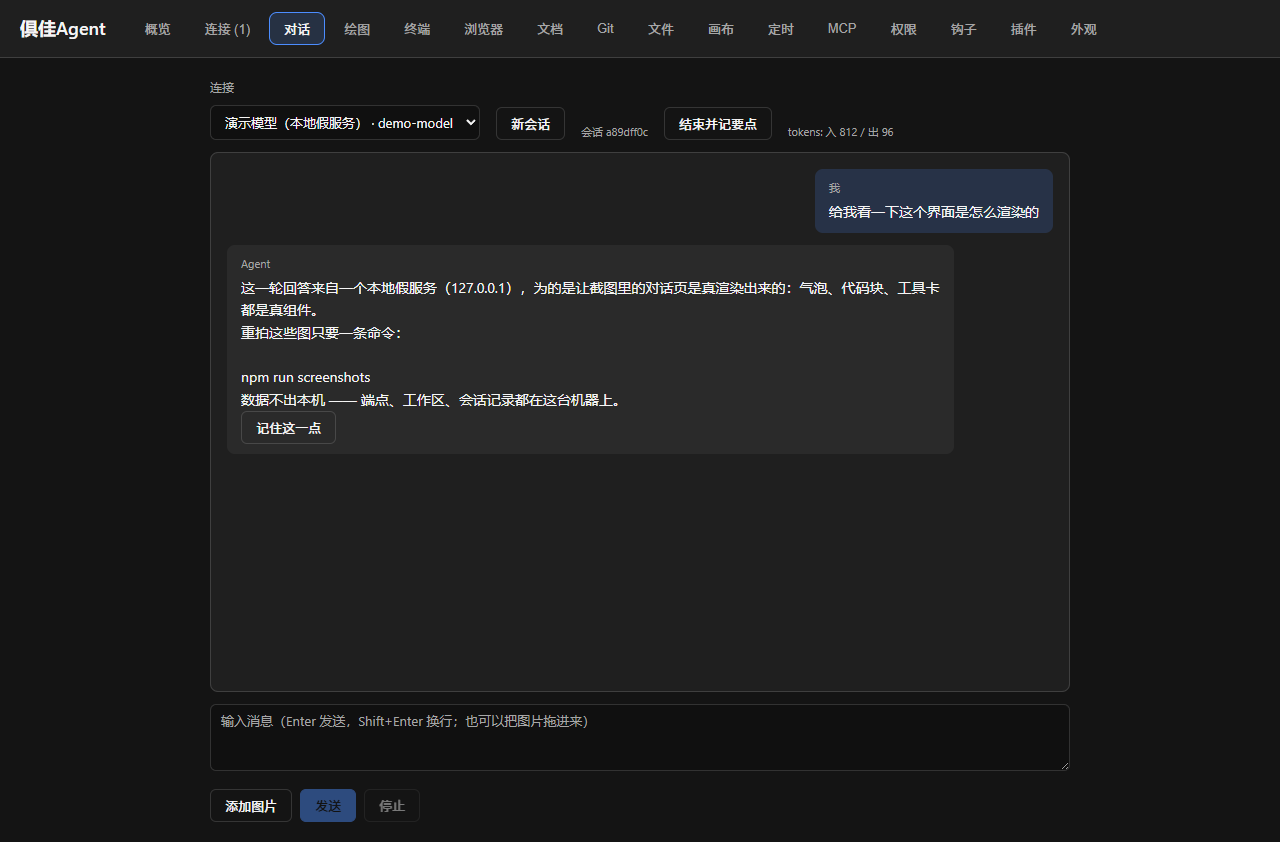
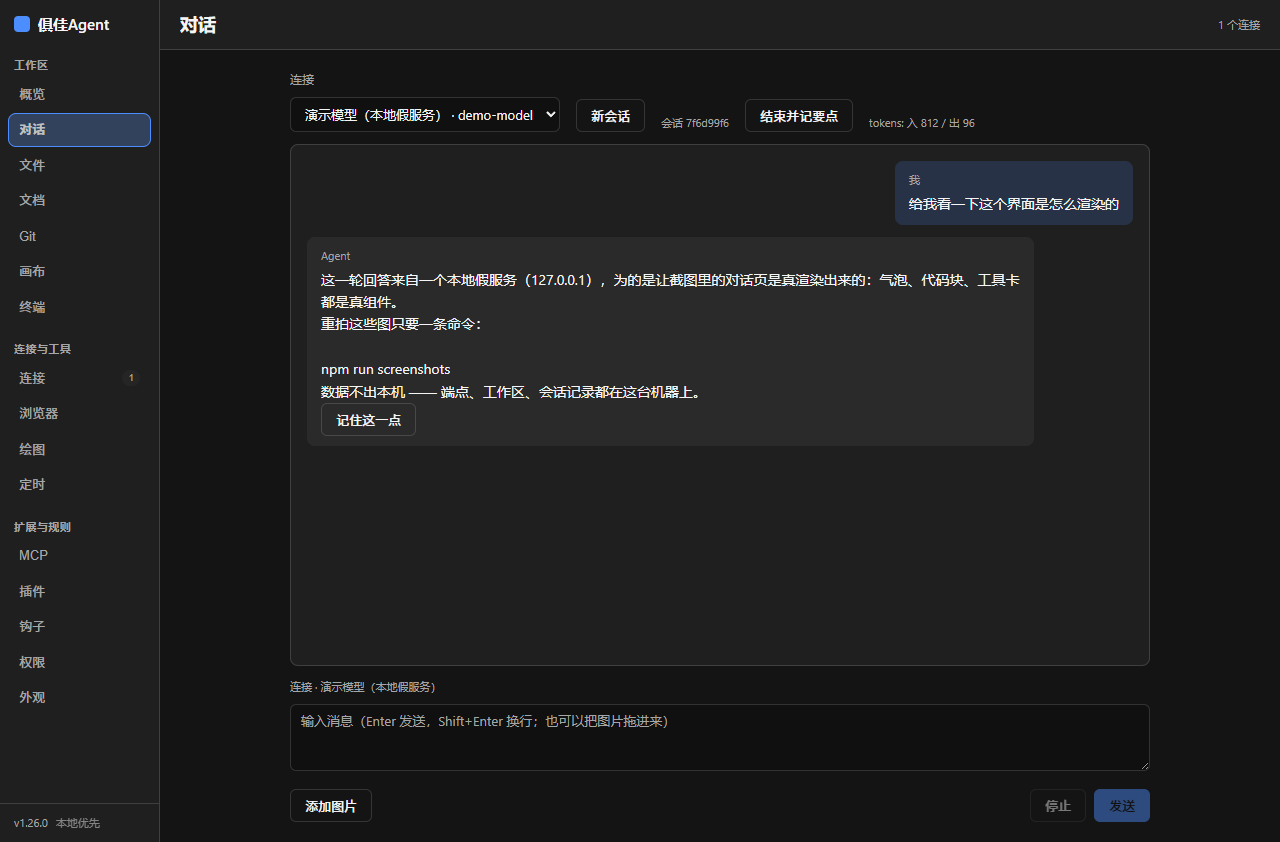
回填笔（R66）：推送核对 + CI 红因（展示图过期）⇒ 重拍展示页 + 把事实写进 §2
**范围**：`docs/screenshots/*`（**展示页 4 张图重拍** + `manifest.json` 记 **v1.26.0 @ `f078e77`**、`dirtyAtCapture:false`）·
`README.md`（图注版本跟到 **v1.26.0**）· `俱佳Agent交接文档.md`（§2 提交链 / 远端一致性 / CI 三格）·
`CHANGELOG.md`（范围补上重拍这一项）· `docs/PROGRESS.md`（排查35 行补 CI 红因与重拍）· `review/REVIEW-LOG.md`（复核 135 补 CI 那一段）。
**标签仍指主体提交 `f078e77`**（本提交只是把"推送核对 / CI / 重拍"这三样事实写进台账，**不改写已推历史**）。

1. **推送核对** —— 主体 `f078e77` 与标签 `v1.26.0-排查35` 一次推成功；
   `ls-remote` 核对：**远端 main == 本地 HEAD == `f078e77`**，远端标签 `691e419` peel 后同样指向 `f078e77` ⇒ **零待推**。
   ⇒ 本轮推时五个候选 IP 恰好全通，但**仍按 §10.11 的配方走**（`curloptResolve` + `schannel`）——
   那条阻断是**时好时坏**的，"这次通了"不等于"下次也会通"。
2. **CI run `#257`（id `40008816546`）第一次是红的** —— `Lint` / `类型检查` / `单元测试` 三步都绿，
   **红在「文档一致性」那一步** ⇒ 根因是**第 51 条判据「展示图不许悄悄过期」**：
   R66 改了渲染层 ⇒ 对外那 4 张展示图**过期了** ⇒ **重拍**（`npm run screenshots`，**离屏渲染不弹窗口**）⇒ 复跑转绿。
   ⇒ **那是这条判据第一次真的拦下一回"界面动了但图没重拍"**（R62 是从零立起它，R65 那轮零产品改动没触发它）。
3. **README 图注跟着改** —— 判据要求 README 的图注写明清单记录的版本 ⇒ `v1.22.0` → **`v1.26.0`**。
4. **如实记（这一条最容易漏）** —— 本轮**前两次 e2e 都红在第 66 步**，而我**第一版的归因是错的**
   （以为是"左栏把入口压扁了"）⇒ 修完**复跑仍红** ⇒ 写**一次性探针**逐项量才量出真因：
   **入口高度因标签语言而异**（Chromium 的表单控件不继承 `body` 的 `line-height` ⇒ 拉丁标签比中文矮 4px）
   ⇒ 修根因后第三跑转绿。⇒ 台账里写的是**真因**，不是**当时的猜测**。

**本轮门禁真值**：typecheck 0 · lint 0 · 单测 **2233 通过 / 1 跳过（153 个测试文件）** ·
`check:docs` **54 条** 0 · 注入自检 **52 处**全拦 0 · 全量变异 **336/336** · **e2e 69 步整跑 0**（第三跑）。

diff --git a/docs/PROGRESS.md b/docs/PROGRESS.md
@@ -84,7 +84,7 @@
 | **排查32** | **「仓库早已公开」+ §9 逐条重判 + 两条自裁项落地（R63）**：① **现扫查出一条大的** —— 账上三处写"仓库私有"，**实测是已公开**（两法互证：`GET /repos/…` → `visibility: public`；**匿名**同一 URL → **200**）⇒ `HANDOVER §5.9` 的「开源前置检查单」**从未走过**，而它现在不是"切公开之前"要做的事，而是**已经公开之后必须补做**的事 ⇒ 本轮**逐条重跑并留证**（`RELEASE-PREP.md` §三：真凭据 **0**（487 文件 × 8 类形态 ＋ 仓里同一份 `maskSecrets` 的 237 个遮蔽值逐条判完）· 账号名底数重算（**8 → 14 个提交** / **14 行 8 文件 → 18 行 10 文件**）· 许可证 **§A 40 / §B 483** · CI **三笔全绿**取到真值）② **§9 八条逐条重判**（判定只有三种：**真停牌** T39/T41 · **等现场** T65/T68 · **可自裁** T69③/T74/T85/T86）⇒ 交接文档 §9 整表重写 ③ **T86 落地**（变异「正在跑」标记 ＋ 注入前原文落盘 ⇒ **被中止也能还原** ＋ **第 52 条判据**）④ **队列计数机器化**（**第 53 条判据**：现扫四张表 ⇒ 与交接文档 §2 逐字对账）⑤ **顺带修三条队列表自己的漂移**（T67 状态列缺 ✅ 前缀 · `gfmCells` 提到模块级 —— **两份切格实现会长出两份数** · 状态句锁**新增一条**（凡活文档再写「仓库现在是私有的」这类断言即红）并把根交接文档纳入扫描范围）⑥ **纠正 R62 的一处误归因**（占用者不是 `crashpad_handler` —— 那 3 个是联想 / 腾讯视频的，今天才起） | `v1.23.0-排查32` | **零产品代码改动、零新依赖、零新通道、零新靶面**（变异仍 330）· 单测 **2207 通过 / 1 跳过（150 个测试文件）** · `check:docs` **53 条** 0 · 注入自检 **51 处**全拦 0（本轮 +3）· e2e **69 步整跑 0**（本轮实跑 · 离屏不弹窗）· 变异 **330 条**（本轮未新增）· 复核 132 |
 | **排查33** | **T74 落地 · 规则表读不出来 ⇒ 非只读一律硬 ask（R64）**：① **判定核心加一步**（`packages/agent-core/src/permissions/policy.ts`）：`rulesUntrusted` 且 `kind !== 'read'` ⇒ **硬 ask**（`bypassable: false`）—— 位置排在 bypassPermissions / plan-dontAsk / 敏感目标**之后**、**只读放行与 acceptEdits 放行之前**（那两处正是「deny 静默不生效」会变成「动作真被做了」的地方）② **口径提成一个具名函数** `rulesAreUntrusted`：**只有 `recovered: true` 才算「读不出来」**（正常首装不多问一句）⇒ 判定侧 / 审计侧 / 界面横幅共用一份 ③ **接线面 14 处**（`IpcPolicy.rulesUntrusted` → 执行器 / git / 钩子 / 打开方式 / TOOL_RUN / 画布 / 对话链路）④ **新接线锁**（`apps/desktop/src/main/gate-wiring.test.ts`）：现扫全仓非测试 .ts ⇒ **每个 `decideGate(` 调用点都必须传** ⇒ 漏一处即红 ⑤ **真缝测试**（真文件实现 + 坏 JSON ⇒ 硬 ask；没有规则文件 ⇒ 仍软 ask）⑥ **变异 M331 / M332** ⇒ 2/2 被拦 ⑦ **界面那层不用改**（摘要本来就带 `gate.reason`） | `v1.24.0-排查33` | **零新依赖、零新通道** · 单测 **2221 通过 / 1 跳过（151 个测试文件）**（+14 例 / +1 文件）· typecheck / lint 0 · `check:docs` **53 条** 0 · 注入自检 **51 处**全拦 0 · 变异 **332 条**（本轮 +2，逐条证红）· e2e **69 步整跑 0**（本轮实跑 —— 判定核心动过 ⇒ 必须实跑）· 复核 133 |
 | **排查34** | **T85 与 T69③ 落地 · 队列里的「待排」清零（R65）**：① **T85**：**新增第 54 条判据**（活文档的**表头**里不许出现「可借鉴 / 对标」⇒ **只认表头**这个结构事实 ⇒ 零误报）⇒ **立判据当场红**在 `docs/RESEARCH-UI-DESIGN.md` 的 **11 个表头**；**处置**：那份「175 条具名同类项目」清单**移出公开树**（`.workbuddy/research/`）⇒ README / 交接文档 §14 / `DESIGN-BASELINE.md` 的指针改指**我们自己的设计口径** ⇒ 顺带订正**陈数字**（自称 196 ⇒ 实测 **175**）；**规则分层**（`WORK-PROTOCOL` 第 11 条）：**对外表述层**禁参照物名称与「借鉴 / 对标」· **研究底稿层**（`knowledge/sources/*` 的出处链接）**保留**（那是「不编造」的基础）⇒ 并把**红线**写进规则：**已公开的历史不改写** ② **T69③**：把 `lockProbe` 抽成独立模块 `apps/desktop/scripts/lock-probe.mjs` ＋ 两条用例（**真·独占句柄**：借 .NET 的 `FileShare.None` 造 ⇒ rename 必然 EBUSY）⇒ **两条分支第一次都在门禁内部被真跑过** ③ 顺带把 `isSepRow` 提到模块级（第 29 条与第 54 条都要认表头 ⇒ **一份实现**） ④ **口径清零**：T85 与 T69 关闭 ⇒ 第 53 条判据现扫 **⬜ 待排 0 条** ⇒ 真未完 **8 → 4 条**（T39 / T41 / T65 / T68）⇒ **剩下 4 条没有一条是"我自己能做"的** ⇒ **不硬凑题面** | `v1.25.0-排查34` | **零产品代码改动、零新依赖、零新通道**（改的是门禁脚本与文档）· 单测 **2224 通过 / 1 跳过（152 个测试文件）**（+3 例 / +1 文件）· typecheck / lint 0 · `check:docs` **54 条** 0 · 注入自检 **52 处**全拦 0（本轮 +1）· 变异 **332 条**（本轮未新增，清单未变）· e2e **69 步未重跑**（**零产品代码改动 ⇒ 沿用 R64 那一轮的整跑 0 并标注**）· 复核 134 |
-| **排查35** | **主界面两栏化（R66 · 所有者点名的 UI 轮）**：① **先看图再动手**：按所有者给的 10 张同类桌面工具界面截图（5 款主界面 + 5 款设置页）**逐张读完** —— 抽出来的是**布局**不是配色：**左栏导航 + 主区两栏** · 导航**分组** · **落地屏**（大标题 + 一句话 + 可点的下一步）· 输入框**分区**（顶部上下文行 / 底部左放右发）· 设置项**一行一条** ② **现扫差距**：当时的外壳是「**顶栏 16 个横向页签 + 单页主体**」⇒ 缺的不是配色（R41–R43 的令牌与动效基线早就立过）而是**布局**（没有左栏、没有落地屏、输入区不分区）⇒ **这轮补布局那一半**，设置中心留到下一轮 ③ **外壳改两栏**：新增 `nav.ts` 作**单一真源**（`Tab` / `TAB_LABEL` / `NAV_GROUPS`）⇒ 16 个入口分 **3 组**；左栏 = 品牌区 + 分组导航 + 底部信息（版本 + 数据目录入口）；主区顶栏只留「**当前页 + 连接数**」④ **落地屏**：空态从「还没有对话…」改成 **28px 大标题 + 一句话 + 4 个可点的下一步**（读懂这个项目 / 找出最该修的问题 / 补一组单元测试 / 解释这段代码）—— ⚠ **点了只填进输入框，不自动发送**（自动发送等于替用户按下「开始改文件」的按钮）⇒ 为此**单开展示字号档** `--fs-display`（28px；它**不是正文的下一档** ⇒ 正文阶梯仍是那六档）⑤ **输入区分区**：顶部一行「**连接 · X**」+ 底部动作行改成**左＝放东西 / 右＝发出去**；⚠ **没改共享的 `.w2-actions`**（全仓 20 多处）⇒ 另起只给输入区用的布局类 ⑥ **选中态改成实心主色**：淡底与常态底只有 **1.1–1.3:1** ⇒ **界面上等于没高亮** ⇒ 改为**实心 `--primary` 底 + `--primary-ink` 字**（≈5.0:1 / ≈5.8:1）⑦ **新判据** `nav-wiring.test.ts`（7 例）：每个入口**恰好**属于一个分组（漏收 = 界面上少一个入口，**没有任何门禁会红**）· 分组不许空壳 · 标题不空不重复 · 显示名不空 · **选中态形态锁**（不许退化成淡底）⑧ **e2e 渲染契约跟着改（不是"改判据让它绿"）**：R45 那条「顶栏页签换行」量的**对象已经不存在**（竖排 ⇒ `rowCount` 恒 1 ⇒ **恒绿的锁比没锁更坏**）⇒ 换成**同一类排版事实的新形态**：左栏不塌（≥140px）· 主区不被挤没（≥600px）· 导航项不折行（≤40px）· 标题不折行 · 左栏**必须能纵向滚**且**不出横向滚动条** · 导航**只有一列** · 左栏宽度**不许随窗口抖** · **选中态对比度实量**（选中项 vs 栏底 ≥3:1 · 字 vs 底 ≥4.5:1）⑨ **一处连带修**：主区让出 160px ⇒ 外观页那 5 个字段（`T84` 定的同排）在 940px 下会掉成 4+1 ⇒ `.jj-grid` 列下限 160 → **120px**（**同一个共享类**，覆盖面不变）⑩ **e2e 前两跑都红在第 66 步（如实记，这是本轮最要紧的一段）**：① **第一跑**：`.app-tab` 实测高度只有 **28.67px**（下限 32×32）⇒ 我第一版判断是"左栏把入口**压扁**了" ⇒ 加了三处 `flex: 0 0 auto` ⇒ **复跑仍然红** ⇒ 说明那个判断**不对**；② 于是写**一次性探针**（仓库外 · 带 `--e2e` 不弹窗）**逐项量**每个入口的高度 / 行盒高 / 父容器高 ⇒ 真相是：**只有 `Git` 与 `MCP` 两个矮 4px**，行盒高 15.33px（中文标签 19.33px）⇒ **根因是字体度量**：Chromium 的**表单控件不继承 `body` 的 `line-height`**（UA 样式表给 `button` 写死 `line-height: normal`）⇒ 拉丁字形比中文字形矮 ⇒ 修法是给 `.app-tab` **显式** `line-height`（1.5）⇒ **16 个入口一律 32.83px**（探针逐项实测）；③ **教训**：「被压扁」与「天生更矮」在**同一个数**上**长得一模一样** ⇒ 只看总数**猜不出根因** ⇒ 必须**逐项量**；那三处 `flex: 0 0 auto` **留着**（显式钉住"不许被压缩"，不依赖弹性项目的自动最小尺寸），但**注释改成真话** ⑪ **新锁自己也有三个洞（都是门禁内部抓出来的）**：**M334 第一版没被拦住**（形态锁只判「块里出现过 `--primary`」⇒ 把 `background` 换成 `transparent` 后 `border-color` 里仍有 ⇒ 照绿 ⇒ **锁是假的**）⇒ 改成**按声明名**钉；**锁的匹配对象错了**（`/\.app-tab \{…\}/` 先撞上 `.app-rail-group-items > .app-tab {` 那块 ⇒ **量到别的规则** ⇒ 假绿，基线复跑当场红）⇒ 改成**锚到行首**；**注释会替声明作证**（那条 CSS 注释里也写着 `flex: 0 0 auto`）⇒ 判据一律**先剥注释再判** | `v1.26.0-排查35` | **零新依赖、零新通道；判定语义与权限映射一字未改**（改的是外壳布局与渲染层样式）· 单测 **2233 通过 / 1 跳过（153 个测试文件）**（+9 例 / +1 文件）· typecheck / lint 0 · `check:docs` **54 条** 0 · 注入自检 **52 处**全拦 0 · 全量变异 **336 条**（本轮 +4，逐条证红）· **e2e 69 步整跑 0**（改了布局 ⇒ 真跑；**前两跑红在第 66 步**，第三次绿）· 复核 135 |
+| **排查35** | **主界面两栏化（R66 · 所有者点名的 UI 轮）**：① **先看图再动手**：按所有者给的 10 张同类桌面工具界面截图（5 款主界面 + 5 款设置页）**逐张读完** —— 抽出来的是**布局**不是配色：**左栏导航 + 主区两栏** · 导航**分组** · **落地屏**（大标题 + 一句话 + 可点的下一步）· 输入框**分区**（顶部上下文行 / 底部左放右发）· 设置项**一行一条** ② **现扫差距**：当时的外壳是「**顶栏 16 个横向页签 + 单页主体**」⇒ 缺的不是配色（R41–R43 的令牌与动效基线早就立过）而是**布局**（没有左栏、没有落地屏、输入区不分区）⇒ **这轮补布局那一半**，设置中心留到下一轮 ③ **外壳改两栏**：新增 `nav.ts` 作**单一真源**（`Tab` / `TAB_LABEL` / `NAV_GROUPS`）⇒ 16 个入口分 **3 组**；左栏 = 品牌区 + 分组导航 + 底部信息（版本 + 数据目录入口）；主区顶栏只留「**当前页 + 连接数**」④ **落地屏**：空态从「还没有对话…」改成 **28px 大标题 + 一句话 + 4 个可点的下一步**（读懂这个项目 / 找出最该修的问题 / 补一组单元测试 / 解释这段代码）—— ⚠ **点了只填进输入框，不自动发送**（自动发送等于替用户按下「开始改文件」的按钮）⇒ 为此**单开展示字号档** `--fs-display`（28px；它**不是正文的下一档** ⇒ 正文阶梯仍是那六档）⑤ **输入区分区**：顶部一行「**连接 · X**」+ 底部动作行改成**左＝放东西 / 右＝发出去**；⚠ **没改共享的 `.w2-actions`**（全仓 20 多处）⇒ 另起只给输入区用的布局类 ⑥ **选中态改成实心主色**：淡底与常态底只有 **1.1–1.3:1** ⇒ **界面上等于没高亮** ⇒ 改为**实心 `--primary` 底 + `--primary-ink` 字**（≈5.0:1 / ≈5.8:1）⑦ **新判据** `nav-wiring.test.ts`（7 例）：每个入口**恰好**属于一个分组（漏收 = 界面上少一个入口，**没有任何门禁会红**）· 分组不许空壳 · 标题不空不重复 · 显示名不空 · **选中态形态锁**（不许退化成淡底）⑧ **e2e 渲染契约跟着改（不是"改判据让它绿"）**：R45 那条「顶栏页签换行」量的**对象已经不存在**（竖排 ⇒ `rowCount` 恒 1 ⇒ **恒绿的锁比没锁更坏**）⇒ 换成**同一类排版事实的新形态**：左栏不塌（≥140px）· 主区不被挤没（≥600px）· 导航项不折行（≤40px）· 标题不折行 · 左栏**必须能纵向滚**且**不出横向滚动条** · 导航**只有一列** · 左栏宽度**不许随窗口抖** · **选中态对比度实量**（选中项 vs 栏底 ≥3:1 · 字 vs 底 ≥4.5:1）⑨ **一处连带修**：主区让出 160px ⇒ 外观页那 5 个字段（`T84` 定的同排）在 940px 下会掉成 4+1 ⇒ `.jj-grid` 列下限 160 → **120px**（**同一个共享类**，覆盖面不变）⑩ **e2e 前两跑都红在第 66 步（如实记，这是本轮最要紧的一段）**：① **第一跑**：`.app-tab` 实测高度只有 **28.67px**（下限 32×32）⇒ 我第一版判断是"左栏把入口**压扁**了" ⇒ 加了三处 `flex: 0 0 auto` ⇒ **复跑仍然红** ⇒ 说明那个判断**不对**；② 于是写**一次性探针**（仓库外 · 带 `--e2e` 不弹窗）**逐项量**每个入口的高度 / 行盒高 / 父容器高 ⇒ 真相是：**只有 `Git` 与 `MCP` 两个矮 4px**，行盒高 15.33px（中文标签 19.33px）⇒ **根因是字体度量**：Chromium 的**表单控件不继承 `body` 的 `line-height`**（UA 样式表给 `button` 写死 `line-height: normal`）⇒ 拉丁字形比中文字形矮 ⇒ 修法是给 `.app-tab` **显式** `line-height`（1.5）⇒ **16 个入口一律 32.83px**（探针逐项实测）；③ **教训**：「被压扁」与「天生更矮」在**同一个数**上**长得一模一样** ⇒ 只看总数**猜不出根因** ⇒ 必须**逐项量**；那三处 `flex: 0 0 auto` **留着**（显式钉住"不许被压缩"，不依赖弹性项目的自动最小尺寸），但**注释改成真话** ⑪ **新锁自己也有三个洞（都是门禁内部抓出来的）**：**M334 第一版没被拦住**（形态锁只判「块里出现过 `--primary`」⇒ 把 `background` 换成 `transparent` 后 `border-color` 里仍有 ⇒ 照绿 ⇒ **锁是假的**）⇒ 改成**按声明名**钉；**锁的匹配对象错了**（`/\.app-tab \{…\}/` 先撞上 `.app-rail-group-items > .app-tab {` 那块 ⇒ **量到别的规则** ⇒ 假绿，基线复跑当场红）⇒ 改成**锚到行首**；**注释会替声明作证**（那条 CSS 注释里也写着 `flex: 0 0 auto`）⇒ 判据一律**先剥注释再判** | `v1.26.0-排查35` | **零新依赖、零新通道；判定语义与权限映射一字未改**（改的是外壳布局与渲染层样式）· 单测 **2233 通过 / 1 跳过（153 个测试文件）**（+9 例 / +1 文件）· typecheck / lint 0 · `check:docs` **54 条** 0 · 注入自检 **52 处**全拦 0 · 全量变异 **336 条**（本轮 +4，逐条证红）· **e2e 69 步整跑 0**（改了布局 ⇒ 真跑；**前两跑红在第 66 步**，第三次绿）· **CI run `#257` 第一次红在「文档一致性」那一步** ⇒ 根因是**第 51 条判据「展示图不许悄悄过期」**（R66 改了渲染层 ⇒ 对外那 4 张图过期）⇒ **重拍展示页**（离屏不弹窗；清单 = **v1.26.0 @ `f078e77`**，`dirtyAtCapture:false`）⇒ 复跑转绿 —— **那是这条判据第一次真的拦下一回"界面动了但图没重拍"** · 复核 135 |
 | **规整16** | **文档一致批（R26）**：① **审计 D 群 9 处逐条重核** —— 1 处早前已改口（README 的 B3 行）、**8 处本轮改掉**，其中 **2 处是审计当时没数到的同形**（HANDOVER 的 M8 行、TRACK-ROADMAP 的 R-13 两行）· ② **权威唯一化**：HANDOVER 的门禁清单与"最近几轮"、PROGRESS §三 与章头计数**全部改成指针**（§三 自 `023d8ff`（2026-10-08）起 20 轮无人更新，最新交付还停在 R2）· ③ **`check:docs` 四条新护栏（16 → 20 条）**：⦷ 标题时间戳 ≤ 标签指向那次提交的真实时刻（取 `git log --format=%ai` —— 与 CI runner 的 UTC 无关）· ⊘ 滚动叙述禁令 · ⊙ 状态句回归锁（7 条**已逐条核实为假**的原话；真没开始的一条不误伤）· ⊚ 活文档编号小节必须连续 · ④ **施工时作者本人踩到 ⊚ 那一坑**：追加 `TEST-POLICY` 一节时拿"## 六、"整行当锚点没写回 → 标题被静吃掉、编号从五跳到七；**当天刚写进禁忌表的形状当天复发**，故把 16 号的判据从 CHANGELOG / 台账推广到全部活文档 · ⑤ **评估入册**（`docs/TEST-POLICY.md` §七：数字清单 / 台账结构 / 时刻 / 权威唯一 / 回归锁 / 活文档结构可机器盯；"还没做完"这类合法陈述盯不住，靠"同一状态只写一处 + 交付的那一笔就改口"） | `v0.85.0-规整16` | **零产品源码改动**（改 `scripts/check-docs.mjs` + `scripts/verify-docs-check.mjs` + 文档）· 注入自检 **19 → 24 处全拦**（还原后 `git diff` 零差异）· 累计 **1970 通过 / 1 跳过，131 文件**（本轮不动测试）· **零新靶面**（变异仍 262 项；检查器自身由注入自检证明）· CHANGELOG 轮换 **v0.75.0-铺设15**（块体 **34 行** / `a9edef9b5a1c`，归档 104 → **105**）· 复核 083 |
 | **加固17** | **证据与偶发批（R25）**：① **T33 界面级证据补齐**（e2e 61 → **62 步**）：种子会话 `e2e-page-seed-0001`（**131 条**真实 JsonStore 信封 + JSONL，时间递增）→ 先选连接 → 点「继续」→ 首屏只装最近 120 条（按钮"从磁盘再读 11 条"）→ 再读补齐内存 → "显示更早的 11 条"挂出 → **最早一条可见且只出现一次**、接缝条 `E2E-PAGE-011` 在场、翻完按钮消失（"有一条历史永远看不到"必现形）。② **落盘失败上界面**（审计 A 残余）：`flushSession` 返回消息写失败原文 → 轮末经 **done 事件 `notice`**（契约新字段）→ 聊天页如实说"这一轮没能写进磁盘历史（重启后这一段会消失）：<原文>"（旧行为只进 main 控制台）。③ **自选程序路径只读主文件**（`browser-exe.json`）：不再从 `.bak` 回退 —— 它决定"启动哪个进程"，旧值复活比拿不到更糟；顺带**收敛 e2e [20]⑤ 偶发**（机制成立 + 现场吻合，非逐毫秒捕获，如实）。④ **[17] 步偶发处置（如实）**：`index.lock` 竞争自 R24 起由产品侧有界等待吸收；[17]/[20]⑤/[60] 三处偶发一并收口或收敛，e2e 四跑三红一绿（见复跑记录）。⑤ **顺带两处（如实）**：全量测试一处红 = `task-wiring` 轮末时序锁被 done 多行化"合法咬到" → **换靶不放宽**（代码锚 + done 唯一一处）；**CHANGELOG 标题时间戳审计**（115 条逐条对 tag 提交）→ 主档 6 处（R21–R24 五个旧条目 + 本轮 v0.84.0）按真实提交时刻校正、归档 30 处只记账（原文保留） | `v0.84.0-加固17` | e2e **62 步**（新 [61] 三层真值）· 新增 **2 例**（open-with primary-only · 落盘失败×done.notice；累计 **1970 通过 / 1 跳过，131 文件**）· 变异 **M261–M262** · smoke / perf（**406ms**）提交前实跑 · 复核 082 |
 | **规整15** | **门禁机械化批（R24）**：① **「整节插入吃标题」机械化**（check:docs 第 16 条：CHANGELOG 每段恰一条 `---` + 标题数==`**回退点**：`数；复核编号 050 起连续无洞；**能红校准**：吃掉一条标题 → 两条判据同时点名 → 还原复绿）· ② **「按档字样抢跑」机械化**（先找定义行再判"字样不许出现在其之前"，失败点名"第 N 行写了什么"；**能红校准**：表格塞一条 → 点名第 47 行 → 还原复绿）· ③ **git 撞 `index.lock`「可见地等」**（`agent-core/git.ts`：5 次 / 300ms 起步线性退避约 3s 上界；成功 note 带"等过多久"、最终失败话术说清"被谁挡着、怎么办"；两条真锁用例：一直占着 / 等待期间释放） | `v0.83.0-规整15` | 新用例 **2**（git 真锁）；累计 **1968 通过 / 1 跳过，131 文件** · check:docs **+1 条**（第 16 号）· e2e / smoke / perf 提交前实跑 · 变异 **M259–M260** · 复核 081 |

diff --git a/俱佳Agent交接文档.md b/俱佳Agent交接文档.md
@@ -31,10 +31,10 @@
 |----|----|
 | 版本 | `1.26.0`（`apps/desktop/package.json`；每轮 **+minor** —— **这只是版本号，不是"正式发布"的声明**，发布动作仍全在 owner 手里，见 `docs/RELEASE-PREP.md`） |
 | 最新标签 | `v1.26.0-排查35` → 提交（**标签指向该轮主体提交**，不是回填提交；本轮主体提交的哈希见 `git log --oneline -3`） |
-| 提交链 | **近三轮**（完整链见 `git log --oneline`）：R62 主体 `d41c465`（重拍展示页 + 图过期接上闸门 · 排查31）→ 回填笔（把本轮哈希与推送核对写进 §2）· R61 主体 `e228929`（T83 裁决 + 打包/启动门禁实跑轮 · 排查30）· R60 主体 `903b693`（T78 命中区逐族处理 · 排查29） |
-| 远端一致性 | ✅ **已推送并核对（2026-10-23）**：R62（排查31）主体 `d41c465` 与标签 `v1.22.0-排查31` 一次推成功（`git push origin main` → `git push origin v1.22.0-排查31` → `* [new tag]`），`ls-remote` 核对**远端 main == 本地 HEAD == `d41c465`**、标签在远端指向主体提交 ⇒ **零待推**。R61（排查30）主体 `e228929`、R60（排查29）主体 `903b693`、R59（排查28）主体 `0edd6dc`、R58（排查27）主体 `7ccc54d` 亦已在远端（同一形状，各轮核对过）。**本轮推时撞到一条机器坑**：原先那句「网络会抖、重试 3–4 次」**判错了** —— 那是**针对 `github.com:443` 的选择性阻断**（`api.github.com` / `gitee` / `npm` 全通 ⇒ 不是本机断网），**重试无用，改解析才有用** ⇒ 配方见 §10.11。 |
+| 提交链 | **近三轮**（完整链见 `git log --oneline`）：R66 主体 `f078e77`（主界面两栏化 · 排查35）→ 回填笔（把本轮哈希、推送核对、CI 与重拍展示图写进 §2）· R65 主体 `4c93469`（T85 与 T69③ 落地 · 排查34）· R64 主体 `7d42c9a`（T74 落地 · 排查33） |
+| 远端一致性 | ✅ **已推送并核对（2026-10-24）**：R66（排查35）主体 `f078e77` 与标签 `v1.26.0-排查35` 一次推成功（`git push origin main` → `git push origin refs/tags/v1.26.0-排查35` → `* [new tag]`），`ls-remote` 核对**远端 main == 本地 HEAD == `f078e77`**、远端标签 `691e419` peel 后同样指向 `f078e77` ⇒ **零待推**。R65（排查34）主体 `4c93469`、R64（排查33）主体 `7d42c9a` 亦已在远端（同一形状，各轮核对过）。**本轮推时撞到一条机器坑**：原先那句「网络会抖、重试 3–4 次」**判错了** —— 那是**针对 `github.com:443` 的选择性阻断**（`api.github.com` / `gitee` / `npm` 全通 ⇒ 不是本机断网），**重试无用，改解析才有用** ⇒ 配方见 §10.11（本轮实测：五个候选 IP 当次全通，但仍按配方走 `curloptResolve` + `schannel`）。 |
 | 仓库可见性 | **已公开**（2026-10-23 现扫 · 两法互证：`GET /repos/…` → `visibility: public`，**匿名**同一 URL → **200** —— 公开仓返 200 / 私有仓返 404，判别法是 `docs/HANDOVER.md` §5.9 自己写下的）。**账上曾长期写着相反的话**（2026-09-24 的旧事实被当成现况）⇒ **§5.9 的「开源前置检查单」从未走过**，现在它不是"切公开之前"要做的事，而是**已经公开之后必须补做**的事 ⇒ **R63 已补跑并留证**（`docs/RELEASE-PREP.md` §三）。**发版 / 发布页更新 / 凭据轮换仍等一句明确的「发」** |
-| CI | workflow 只跟 `main` / PR；`#200`–`#203` 均 **completed / success**（取法见 §6.3）· **R36（排查4）… R58（排查27）十一轮的 CI run 状态均未复取**（主体是 `main` 的 tip ⇒ 应当有 run；**未复取，不推断成败**；本机 **未装 `gh` CLI** ⇒ 只能靠 API 取，本轮按边界不做）。**workflow 本身已现扫核对**：两个 workflow（`ci.yml` 跑快档去掉 e2e · `mutation.yml` 手动触发慢档变异）**与 PROGRESS 的快/慢档口径一致**，第 14 条判据在岗 |
+| CI | workflow 只跟 `main` / PR；**R66（排查35）的 run `#257`（id `40008816546`）**：第一次 **failure —— 红在「文档一致性」那一步**（`Lint` / `类型检查` / `单元测试` 三步都绿）⇒ 根因是**第 51 条判据「展示图不许悄悄过期」**：R66 改了渲染层 ⇒ 对外那 4 张展示图过期 ⇒ **重拍后复跑转绿**（展示图清单 = **v1.26.0 @ `f078e77`**，`dirtyAtCapture:false`）⇒ **这是那条判据第一次真的拦下了一次"界面动了但图没重拍"**（此前 R62 是从零立起它）。取法见 §6.3（本机**未装 `gh` CLI** ⇒ 靠 API 取 run）。**workflow 本身已现扫核对**：两个 workflow（`ci.yml` 跑快档去掉 e2e · `mutation.yml` 手动触发慢档变异）**与 PROGRESS 的快/慢档口径一致**，第 14 条判据在岗 |
 | 门禁最近一次真值 | typecheck 0 · lint 0 · 单测 **2233 通过 / 1 跳过（153 个测试文件）** · `check:docs` **54 条** 0 · 注入自检 **52 处**全拦 0 · **e2e 69 步整跑 0**（R66 改了**外壳布局** ⇒ 渲染契约按左栏形态重测：左栏宽度 / 主区宽度 / 导航项高度 / 左栏可滚性 / 选中态对比度；**前两跑红在第 66 步** —— 入口高度因**标签语言**而异（拉丁标签比中文矮 4px ⇒ 28.67px < 32px 下限），探针量出根因后第三跑绿）· 变异 **336 条**（`review/mutations.json` 现扫，末条 `M336`；R66 补 M333–M336 四条并逐条证红）· **慢档本轮未实跑**（smoke / perf / verify:pack）—— **R66 改的是渲染层布局，慢档三项与本轮改动无关 ⇒ 如实标注而非默认"最近一次全绿"**（上一轮实跑见 R61） |
 | 排期 | **后续各轮的逐轮计划见 `docs/TRACK-ROADMAP.md` §6.3**（题面 / 可量验收 / 停牌点 / 谁做；§6.3 的标题仍写着「后续十轮（R45–R54）」，那是**落文当时**的排期，行数已续排到 **R66**）· **R66 = 主界面两栏化**（**所有者点名的 UI 轮**，2026-10-24 交付 · `v1.26.0-排查35`）：外壳从「顶栏 16 个横向页签」改成「**左栏分组导航 + 主区**」，落地屏与输入区分区一并落地（口径见 `docs/DESIGN-BASELINE.md` 的 R66 小节）· **下一轮 R67 = 设置中心**：把外观 / 权限 / MCP / 插件 / 钩子收进**整页覆盖的设置页**（左导航分组 + 右侧内容），设置项走**一行一条**（标题 + 说明 + 右侧控件）—— 那是这批参考界面里**还没做的那一半** · **队列里剩下的 4 条仍不可自裁**（T39 等一句「发」· T41 等一句「可以收紧」· T65 / T68 等一次现场）⇒ **切公开 / 发版 / 凭据轮换仍等一句明确的「发」** |
 | 队列 | **机器口径**（判据现扫 ROADMAP 四张表 ⇒ 与这一句**逐字对账**，对不上就红）：87 物理行 / 86 个唯一编号 · ✅ 已交付 82 条 · ⬜ 待排 0 条 · 🔶 等人拍板 1 条（T39） · 🟡 部分交付或根因未定 3 条（T41 / T65 / T68）。⇒ **真未完 = 0 + 1 + 3 = 4 条**，逐条见 §9。**R65 把"待排"清零了** —— 队列里**能自裁的都做完了**（T86 于 R63 · T74 于 R64 · T85 与 T69 于 R65）⇒ 剩下 4 条没有一条是"我自己能做"的：**两条等一句拍板**（T39 发版 / T41 终端进判定）· **两条等一次现场**（T65 / T68 e2e 偶发红）。**这套口径是机器给的，不是人抄的**：R63 立完第一条锁时，它当场把旧账（✅77 · ⬜5）判成红并打出真值；R64 关掉 T74、R65 关掉 T85 / T69 / T86 之后它又各打一次 ⇒ **人抄的数会漂，判据算的数不会**。 |

diff --git a/review/REVIEW-LOG.md b/review/REVIEW-LOG.md
@@ -7657,8 +7657,13 @@ R62 台账把 `release/shoot` 与 `pack-probe-projone` 的占用者写成"两个
 
 - 单测 **2233 通过 / 1 跳过（153 个测试文件）**（+9 例 / +1 文件）· `check:docs` **54 条** 0 ·
   注入自检 **52 处**全拦 0 · 全量变异 **336 条**（本轮 +4，逐条证红）· typecheck / lint 0 ·
-  **e2e 69 步整跑 0**（改了布局 ⇒ 真跑；**前两跑都红在第 66 步**：第一跑红在"入口压扁"，
-  修完复跑仍红 ⇒ 探针量出真因 ⇒ 修根因后第三跑转绿）。
+  **e2e 69 步整跑 0**（改了布局 ⇒ 真跑；**前两跑都红在第 66 步**：第一跑红在"入口比下限矮 4px"，
+  我第一版归因为"被压扁" ⇒ 修完**复跑仍红** ⇒ 探针量出真因（**标签语言**）⇒ 修根因后第三跑转绿）。
+- **CI run `#257` 第一次红**（`Lint` / `类型检查` / `单元测试` 三步都绿 ⇒ 红在**「文档一致性」**那一步）
+  ⇒ 根因是**第 51 条判据「展示图不许悄悄过期」** —— R66 改了渲染层 ⇒ 对外那 4 张展示图过期
+  ⇒ **重拍展示页**（`npm run screenshots`，**离屏不弹窗口**；清单 = **v1.26.0 @ `f078e77`**，
+  `dirtyAtCapture:false`）⇒ 复跑转绿
+  ⇒ **那是这条判据第一次真的拦下一回"界面动了但图没重拍"**（R62 是从零立起它，R65 那轮零产品改动没触发它）。
 - **慢档三项本轮未实跑**（smoke / perf / verify:pack）—— **R66 改的是渲染层布局**，慢档与本轮改动无关
   ⇒ **如实标注**，不写成"最近一次全绿"。
 - **边界（如实记）**：**设置页那一半没做**（参考界面里的"一行一条"设置项形态）⇒ 留给 R67；

diff --git a/CHANGELOG.md b/CHANGELOG.md
@@ -20,7 +20,8 @@
 `apps/desktop/scripts/e2e-ui.mjs`（渲染契约改成左栏形态）· `apps/desktop/src/main/schedule-wiring.test.ts`（页签标签锁跟着真源走）·
 `review/mutations.json`（+M333 / M334）· `docs/PROGRESS.md`（排查35 行 + 当前规模）· `docs/TRACK-ROADMAP.md`（§6.3 加 R66 行）·
 `docs/DESIGN-BASELINE.md`（R66 小节）· `俱佳Agent交接文档.md`（§2 · §13）· `review/REVIEW-LOG.md`（复核 135）·
-`docs/CHANGELOG-ARCHIVE.md`（最老一条搬入）· `apps/desktop/package.json`（版本 1.25.0 → 1.26.0）。
+`docs/CHANGELOG-ARCHIVE.md`（最老一条搬入）· `docs/screenshots/*`（**展示页 4 张图重拍** ⇒ 清单 = **v1.26.0 @ `f078e77`**）·
+`apps/desktop/package.json`（版本 1.25.0 → 1.26.0）。
 **零新依赖、零新通道；判定语义与权限映射一字未改（改的是外壳布局与渲染层样式）。**
 
 1. **先看图再动手** —— 按所有者给的 10 张同类桌面工具界面截图（5 款主界面 + 5 款设置页）**逐张读完**，

diff --git a/README.md b/README.md
@@ -16,7 +16,7 @@
 
 ## 界面一览
 
-截图取自 **`v1.22.0` 的打包产物**（不是设计稿，也不是开发态 —— 开发态的版本号会回落到 Electron 版本）。
+截图取自 **`v1.26.0` 的打包产物**（不是设计稿，也不是开发态 —— 开发态的版本号会回落到 Electron 版本）。
 数据目录与工作区都是**中性演示路径**（`D:\JujiaAgentDemo*`），拍完自动清场。
 **重拍一条命令**：`npm run screenshots`（离屏渲染，不弹窗口；产物与版本、提交、是否干净都记在
 [`docs/screenshots/manifest.json`](docs/screenshots/manifest.json) 里）：
